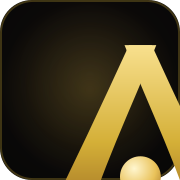
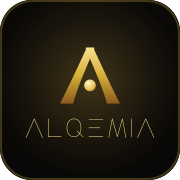
fix: iconos PWA con la letra propia + SW v3 (purga cachés viejas) + regla anti-estiramiento del letrero
- Iconos regenerados (192/512/maskable/apple/next) con el emblema Λ y el
  wordmark ALQEMIA en los glifos propios de la marca (antes el icono
  desplegado estaba vacío y los dispositivos quedaban sirviendo el icono
  antiguo por la caché del SW).
- SW alqemia-v3: la activación borra TODAS las cachés v1 en los
  dispositivos de los usuarios → iconos y letras nuevas al instante.
  Registro con updateViaCache:'none' + recarga única al cambiar el
  controlador (auto-sanación en cualquier visita).
- AlqemiaLetters: aspect-ratio inline — regla general anti-estiramiento:
  si un contenedor angosto recorta el ancho, la altura baja en la misma
  proporción; el letrero nunca se ve alargado en ningún dispositivo ni
  escala de fuente del sistema.
- Banner de instalación: títulos con text-balance y leading-snug
  (legible y elegante en 320px y con fuentes del sistema ampliadas).
- Portal: reintento único ante fallos de red/cold-start + página de
  reconexión elegante (resistencia en móviles e incógnito).

diff --git a/src/components/pwa/pwa-provider.tsx b/src/components/pwa/pwa-provider.tsx
@@ -43,11 +43,27 @@ export function PwaProvider() {
   const [visible, setVisible] = useState(false)
 
   // 1) Registrar el Service Worker (solo producción: en dev evita caché vieja)
+  //    · updateViaCache:"none" → el navegador NUNCA usa su caché HTTP para
+  //      comprobar actualizaciones del SW: los despliegues llegan siempre.
+  //    · Al tomar el control una versión nueva → recarga UNA vez para que el
+  //      usuario vea iconos/letras nuevos al instante (sin bucles).
   useEffect(() => {
     if (process.env.NODE_ENV !== "production") return
-    if ("serviceWorker" in navigator) {
-      navigator.serviceWorker.register("/sw.js").catch(() => {})
+    if (!("serviceWorker" in navigator)) return
+
+    navigator.serviceWorker
+      .register("/sw.js", { updateViaCache: "none" })
+      .catch(() => {})
+
+    let reloaded = false
+    const onControllerChange = () => {
+      if (reloaded) return
+      reloaded = true
+      window.location.reload()
     }
+    navigator.serviceWorker.addEventListener("controllerchange", onControllerChange)
+    return () =>
+      navigator.serviceWorker.removeEventListener("controllerchange", onControllerChange)
   }, [])
 
   // 2) Detectar capacidad de instalación
@@ -103,7 +119,7 @@ export function PwaProvider() {
             <Smartphone className="h-5 w-5 text-gold-bright" aria-hidden />
           </span>
           <div className="min-w-0 flex-1">
-            <p className="text-sm font-semibold text-zinc-100">Instala <AlqemiaLetters text="ALQEMIA" strokeWidth={14} /> en tu iPhone</p>
+            <p className="text-balance text-sm font-semibold leading-snug text-zinc-100">Instala <AlqemiaLetters text="ALQEMIA" strokeWidth={14} /> en tu iPhone</p>
             <ol className="mt-1.5 space-y-1 text-xs leading-relaxed text-zinc-400">
               <li>
                 1. Toca el ícono <strong className="text-zinc-200">Compartir</strong>{" "}
@@ -149,7 +165,7 @@ export function PwaProvider() {
             aria-hidden
           />
           <div className="min-w-0">
-            <p className="text-sm font-semibold text-zinc-100">Instala la app de <AlqemiaLetters text="ALQEMIA" strokeWidth={14} /></p>
+            <p className="text-balance text-sm font-semibold leading-snug text-zinc-100">Instala la app de <AlqemiaLetters text="ALQEMIA" strokeWidth={14} /></p>
             <p className="mt-0.5 text-balance text-xs leading-snug text-zinc-400">
               En tu pantalla de inicio o escritorio, como una app real.
             </p>

diff --git a/pages-portal/_worker.js b/pages-portal/_worker.js
@@ -45,15 +45,34 @@ const portalWorker = {
     headers.set("x-alqemia-portal", "1");
 
     const method = request.method.toUpperCase();
-    const upstreamReq = new Request(toUpstreamUrl(url), {
-      method: request.method,
-      headers,
-      // GET/HEAD no llevan cuerpo; el resto se transmite en streaming
-      body: method === "GET" || method === "HEAD" ? undefined : request.body,
-      redirect: "manual",
-    });
+    const canRetry = method === "GET" || method === "HEAD"; // sin cuerpo → reintentable
+    const buildUpstream = () =>
+      new Request(toUpstreamUrl(url), {
+        method: request.method,
+        headers,
+        // GET/HEAD no llevan cuerpo; el resto se transmite en streaming
+        body: canRetry ? undefined : request.body,
+        redirect: "manual",
+      });
 
-    const res = await fetch(upstreamReq);
+    // Reinteno único ante fallos de red / cold-start del Worker interno
+    // (redes móviles inestables, primer arranque, modo incógnito). Si aun
+    // así falla, se entrega una página elegante en vez del error seco de
+    // Cloudflare.
+    let res;
+    try {
+      res = await fetch(buildUpstream());
+    } catch (err) {
+      if (!canRetry) throw err;
+      try {
+        res = await fetch(buildUpstream());
+      } catch {
+        return new Response(
+          '<!DOCTYPE html><html lang="es"><head><meta charset="utf-8"><meta name="viewport" content="width=device-width,initial-scale=1"><title>ALQEMIA</title><style>body{background:#050505;color:#d4af37;font-family:system-ui,sans-serif;display:grid;place-items:center;height:100vh;margin:0;text-align:center}div{padding:2rem;max-width:28rem}h1{font-size:1.05rem;font-weight:600;letter-spacing:.08em}p{color:#a1a1aa;font-size:.85rem;line-height:1.6}</style></head><body><div><h1>ALQEMIA</h1><p>La conexión con el Hub se cayó un instante.<br>Vuelve a cargar la página en unos segundos.</p></div></body></html>',
+          { status: 502, headers: { "content-type": "text/html; charset=utf-8" } }
+        );
+      }
+    }
 
     // Pase de respuesta: conserva streaming, cookies y cabeceras
     const out = new Response(res.body, res);

diff --git a/public/sw.js b/public/sw.js
@@ -4,9 +4,13 @@
 //   · Navegación → red primero, respaldo a "/" (offline)
 //   · Estáticos (_next/static, iconos, imágenes) → caché primero
 //   · APIs (/api/*) → siempre red (nunca cachear datos vivos)
+// IMPORTANTE: al cambiar iconos o assets públicos hay que subir
+// la VERSIÓN — la activación borra las cachés viejas en todos
+// los dispositivos (iconos/letras nuevas reemplazan a las
+// antiguas que quedaron guardadas en visitas previas).
 // ============================================================
 
-const VERSION = "alqemia-v1"
+const VERSION = "alqemia-v3"
 const SHELL_CACHE = `${VERSION}-shell`
 const STATIC_CACHE = `${VERSION}-static`
 

diff --git a/src/app/globals.css b/src/app/globals.css
@@ -192,7 +192,12 @@
 }
 
 /* ---- Letra ALQEMIA (letrero propio en SVG) ----
-   Se dimensiona por el font-size del contexto: altura ≈ 1em. */
+   Se dimensiona por el font-size del contexto: altura ≈ 1em.
+   REGLA ANTI-ESTIRAMIENTO: el componente inyecta `aspect-ratio`
+   inline; si un contenedor angosto recorta el ancho (max-width),
+   la altura se reduce EN LA MISMA PROPORCIÓN — las letras nunca
+   se ven alargadas verticalmente, en ningún dispositivo/tamaño
+   de fuente del sistema. */
 .alq-letters {
   height: 0.98em;
   width: auto;

diff --git a/src/components/alqemia/fx/alqemia-lettering.tsx b/src/components/alqemia/fx/alqemia-lettering.tsx
@@ -189,6 +189,10 @@ export function AlqemiaLetters({
       <svg
         viewBox={`0 0 ${width} 100`}
         className="alq-letters"
+        // Proporción explícita: si un contenedor estrecho recorta el
+        // ancho (max-width), la altura se reduce en la misma medida.
+        // Es la regla general anti-estiramiento en cualquier dispositivo.
+        style={{ aspectRatio: `${width} / 100` }}
         fill="none"
         aria-hidden="true"
         focusable="false"
